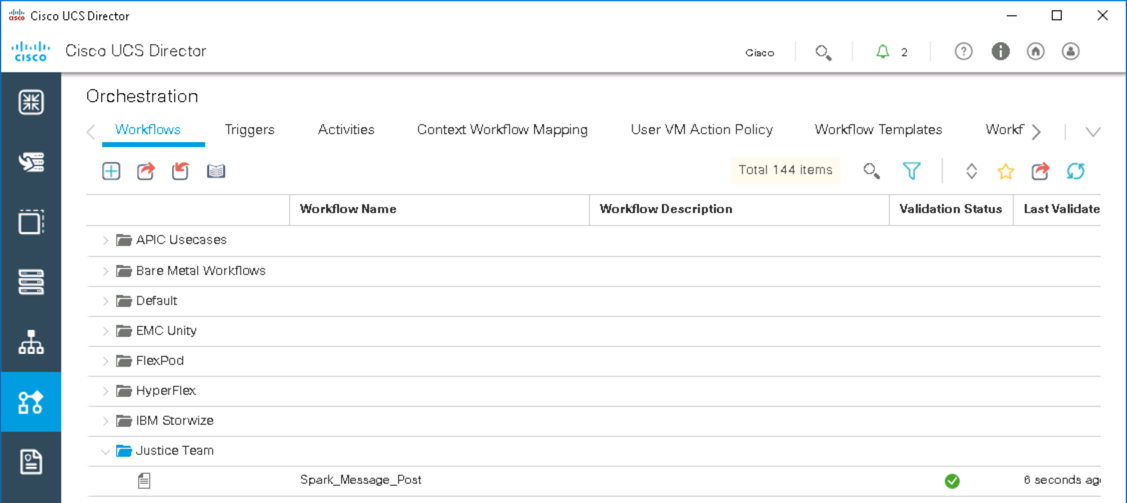
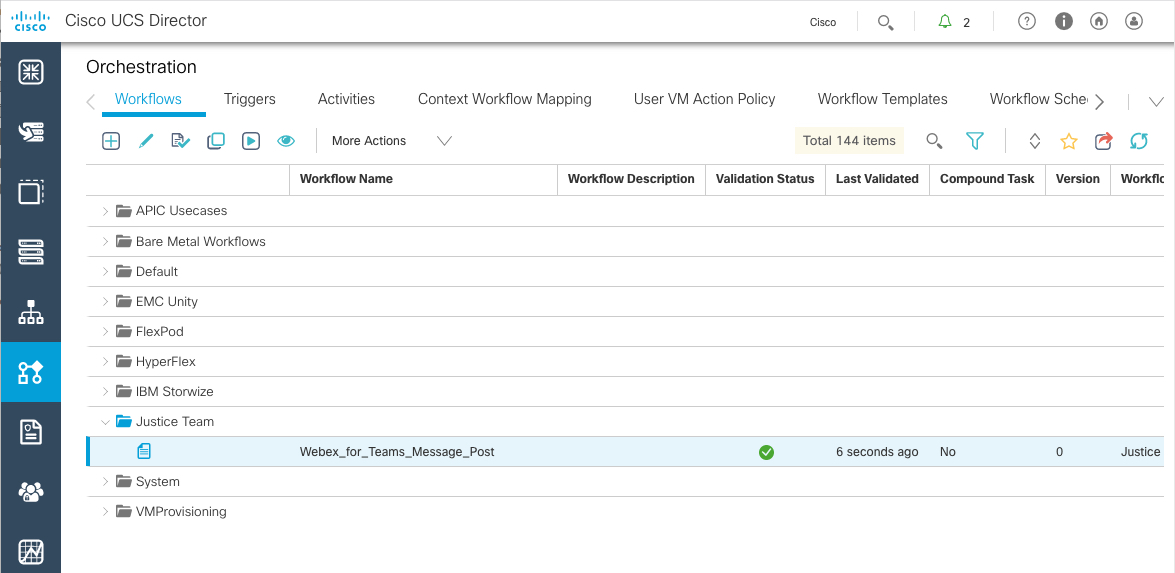
Webex for Teams updates

diff --git a/labs/dne-dcip-ucsd-infrastructure-automation-mission-01-v01/4.md b/labs/dne-dcip-ucsd-infrastructure-automation-mission-01-v01/4.md
@@ -7,54 +7,54 @@
   - Filter for  `UserAPIGlobal@userAPIGetServiceRequestLogEntries`
   - Click **Generate URL**
 
-    ![](/posts/files/dne-dcip-ucsd-infrastructure-automation-mission-01-v01/assets/images/image-11.jpg)<br/><br/>
+    <!---![](/posts/files/dne-dcip-ucsd-infrastructure-automation-mission-01-v01/assets/images/image-11.jpg)<br/><br/>--->
 
-    <!---![](assets/images/image-11.jpg)<br/><br/>--->
+    ![](assets/images/image-11.jpg)<br/><br/>
 
   - Update the URL with the correct parameters
     - `param0`: Service Request IP, for example 5
     - `param1`: Log Severity Level "0"
 
-    ![](/posts/files/dne-dcip-ucsd-infrastructure-automation-mission-01-v01/assets/images/image-12.jpg)<br/><br/>
+    <!---![](/posts/files/dne-dcip-ucsd-infrastructure-automation-mission-01-v01/assets/images/image-12.jpg)<br/><br/>--->
 
-    <!---![](assets/images/image-12.jpg)<br/><br/>--->
+    ![](assets/images/image-12.jpg)<br/><br/>
 
   - Execute the URL via Postman
     - Get the REST API Access key and add as a `Header` in Postman.
 
-    ![](/posts/files/dne-dcip-ucsd-infrastructure-automation-mission-01-v01/assets/images/image-08.jpg)<br/><br/>
+    <!---![](/posts/files/dne-dcip-ucsd-infrastructure-automation-mission-01-v01/assets/images/image-08.jpg)<br/><br/>--->
 
-    <!---![](assets/images/image-08.jpg)<br/><br/>--->
+    ![](assets/images/image-08.jpg)<br/><br/>
 
-    ![](/posts/files/dne-dcip-ucsd-infrastructure-automation-mission-01-v01/assets/images/image-09.jpg)<br/><br/>
+    <!---![](/posts/files/dne-dcip-ucsd-infrastructure-automation-mission-01-v01/assets/images/image-09.jpg)<br/><br/>--->
 
-    <!---![](assets/images/image-09.jpg)<br/><br/>--->
+    ![](assets/images/image-09.jpg)<br/><br/>
 
     ```code
     https://198.18.133.112/app/api/rest?formatType=json&opName=userAPIGetServiceRequestLogEntries&opData={param0:5,param1:0}
     ```
 
-    ![](/posts/files/dne-dcip-ucsd-infrastructure-automation-mission-01-v01/assets/images/image-13.jpg)<br/><br/>
+    <!---![](/posts/files/dne-dcip-ucsd-infrastructure-automation-mission-01-v01/assets/images/image-13.jpg)<br/><br/>--->
 
-    <!---![](assets/images/image-13.jpg)<br/><br/>--->
+    ![](assets/images/image-13.jpg)<br/><br/>
 
 ### Mission Completion
 
-Update the **Event Spark Room** with a ***Completion Message***
+Update the **DevNet Express** event **Webex for Teams Space** with a ***Mission Completion Message***
 
-  1. Retrieve your Spark API Access Token. This token is your permanent developer token and is used to access Spark APIs.
+  1. Retrieve your **Webex for Teams**, formerly Cisco Spark, API Token. The token is used to authenticate and access the Webex for Teams APIs.
 
-    - Login to [Spark Developer Website](https://developer.ciscospark.com/)
-    - ***Click*** on your profile image
+    - Login to the [Cisco Webex for Developers site](https://developer.webex.com/getting-started.html)
+    - Midway down the "Getting Started" page under the **Authentication** section your current API authentication token will be available for copying.
     - ***Click*** **Copy** to copy your access token to the clipboard<br/><br/>
 
-    ![](/posts/files/dne-dcip-ucsd-infrastructure-automation-mission-01-v01/assets/images/image-14.jpg)<br/><br/>
+    <!---![](/posts/files/dne-dcip-ucsd-infrastructure-automation-mission-01-v01/assets/images/image-14.jpg)<br/><br/>
 
-    <!---![](assets/images/image-14.jpg)<br/><br/>--->
+    ![](assets/images/image-14.jpg)<br/><br/>--->
 
-  2. Import the **Spark_Message_Post** Workflows
+  2. Import the **Webex_for_Teams_Message_Post** Workflow into UCS Director.
 
-    - On the left side menu bar, choose **Orchestration**.
+    - In the UCS Director GUI, on the left-side menu bar, choose **Orchestration**.
     - ***Click*** the **Workflows** tab, if it is not already selected.
     - ***Click*** the **Import** icon
     - On the **Import** screen:
@@ -62,62 +62,62 @@ Update the **Event Spark Room** with a ***Completion Message***
         - ***Click*** **Select a File**
         - Use the **File Upload** dialog box to upload the file
         ```code
-        C:\Users\demouser\CiscoDevNet\code\LM-5701 ucsd api\dne-dcip-ucsd-infrastructure-automation-api-spark-message.wfdx
+        C:\Users\demouser\CiscoDevNet\code\LM-5701 ucsd api\dne-dcip-ucsd-infrastructure-automation-api-webex-for-teams-message.wfdx
         ```
-        - ***Click*** **Next** when the file upload has been completed and the contents of the upload are displayed.
+        - ***Click*** **Next** when the file upload has completed and the contents of the upload are displayed.
       - On Page 2 **Import Policies**
-      - ***Click*** **Import**
+        - ***Click*** **Import**
 
-      ![](/posts/files/dne-dcip-ucsd-infrastructure-automation-mission-01-v01/assets/images/image-01.jpg)<br/><br/>
+      <!---![](/posts/files/dne-dcip-ucsd-infrastructure-automation-mission-01-v01/assets/images/image-01.jpg)<br/><br/>--->
 
-      <!---![](assets/images/image-01.jpg)<br/><br/>--->
+      ![](assets/images/image-01.jpg)<br/><br/>
 
-      ![](/posts/files/dne-dcip-ucsd-infrastructure-automation-mission-01-v01/assets/images/image-15.jpg)<br/><br/>
+      <!---![](/posts/files/dne-dcip-ucsd-infrastructure-automation-mission-01-v01/assets/images/image-15.jpg)<br/><br/>--->
 
-      <!---![](assets/images/image-15.jpg)<br/><br/>--->
+      ![](assets/images/image-15.jpg)<br/><br/>
 
-      ![](/posts/files/dne-dcip-ucsd-infrastructure-automation-mission-01-v01/assets/images/image-03.jpg)<br/><br/>
+      <!---![](/posts/files/dne-dcip-ucsd-infrastructure-automation-mission-01-v01/assets/images/image-03.jpg)<br/><br/>--->
 
-      <!---![](assets/images/image-03.jpg)<br/><br/>--->
+      ![](assets/images/image-03.jpg)<br/><br/>
 
-    - ***Click*** the twistie next to the **Justice Team** folder, and the **Spark_Message_Post** workflow is listed.
+    - ***Click*** the twistie next to the **Justice Team** folder and the **Webex_for_Teams_Message_Post** workflow is now showing.
 
-      ![](/posts/files/dne-dcip-ucsd-infrastructure-automation-mission-01-v01/assets/images/image-16.jpg)<br/><br/>
+      <!---![](/posts/files/dne-dcip-ucsd-infrastructure-automation-mission-01-v01/assets/images/image-16.jpg)<br/><br/>--->
 
-      <!---![](assets/images/image-16.jpg)<br/><br/>--->
+      ![](assets/images/image-16.jpg)<br/><br/>
 
   3. Execute the workflow
 
     - ***Click*** on the workflow to select it
     - ***Click*** the **Execute Now** icon to execute the workflow
-    - ***Enter*** your **Spark API Token**
-    - ***Enter*** the name of the **DevNet Event Spark Room** for the event you are attending
+    - ***Enter*** your **Webex for Teams API Token**
+    - ***Enter*** the name of the **Webex for Teams Space** for the **DevNet Event Express** you are attending
     - ***Enter*** the Message **I have completed the UCS Director Mission**</br></br>
 
-    ![](/posts/files/dne-dcip-ucsd-infrastructure-automation-mission-01-v01/assets/images/image-17.jpg)<br/><br/>
+    <!---![](/posts/files/dne-dcip-ucsd-infrastructure-automation-mission-01-v01/assets/images/image-17.jpg)<br/><br/>--->
 
-    <!---![](assets/images/image-17.jpg)<br/><br/>--->
+    ![](assets/images/image-17.jpg)<br/><br/>
 
-    ![](/posts/files/dne-dcip-ucsd-infrastructure-automation-mission-01-v01/assets/images/image-18.jpg)<br/><br/>
+    <!---![](/posts/files/dne-dcip-ucsd-infrastructure-automation-mission-01-v01/assets/images/image-18.jpg)<br/><br/>--->
 
-    <!---![](assets/images/image-18.jpg)<br/><br/>--->
+    ![](assets/images/image-18.jpg)<br/><br/>
 
-    If the Infrastructure that is being utilized requires a proxy enter those values, the trainers will notify you if a proxy is required.  Typically **no proxy information is required**.
+    If the Infrastructure that is being utilized requires a proxy enter those values, the trainers will notify you if a proxy is required.  Typically at a **DevNet Express** event **no proxy information is required**.
 
     - ***Click*** "Submit"
     - ***Click*** "Show Detail Status"
     - ***Browse*** these tabs to view the status of the workflow
       - "Workflow Status"
-      - "Log"
+      - "Log"</br></br>
 
-      ![](/posts/files/dne-dcip-ucsd-infrastructure-automation-mission-01-v01/assets/images/image-19.jpg)<br/><br/>
+    <!---![](/posts/files/dne-dcip-ucsd-infrastructure-automation-mission-01-v01/assets/images/image-19.jpg)<br/><br/>--->
 
-      <!---![](assets/images/image-19.jpg)<br/><br/>--->
+    ![](assets/images/image-19.jpg)<br/><br/>
 
-  4. View your message in the DevNet Express Event Room.
+  4. View your message in the **DevNet Express** Webex for Teams Event Space.
 
-    ![](/posts/files/dne-dcip-ucsd-infrastructure-automation-mission-01-v01/assets/images/image-20.jpg)<br/><br/>
+    <!---![](/posts/files/dne-dcip-ucsd-infrastructure-automation-mission-01-v01/assets/images/image-20.jpg)<br/><br/>--->
 
-    <!---![](assets/images/image-20.jpg)<br/><br/>--->
+    ![](assets/images/image-20.jpg)<br/><br/>-
 
 Congratulations you have completed the Mission - ***Using the UCS Director REST API to Execute Workflows and View their Status***.
